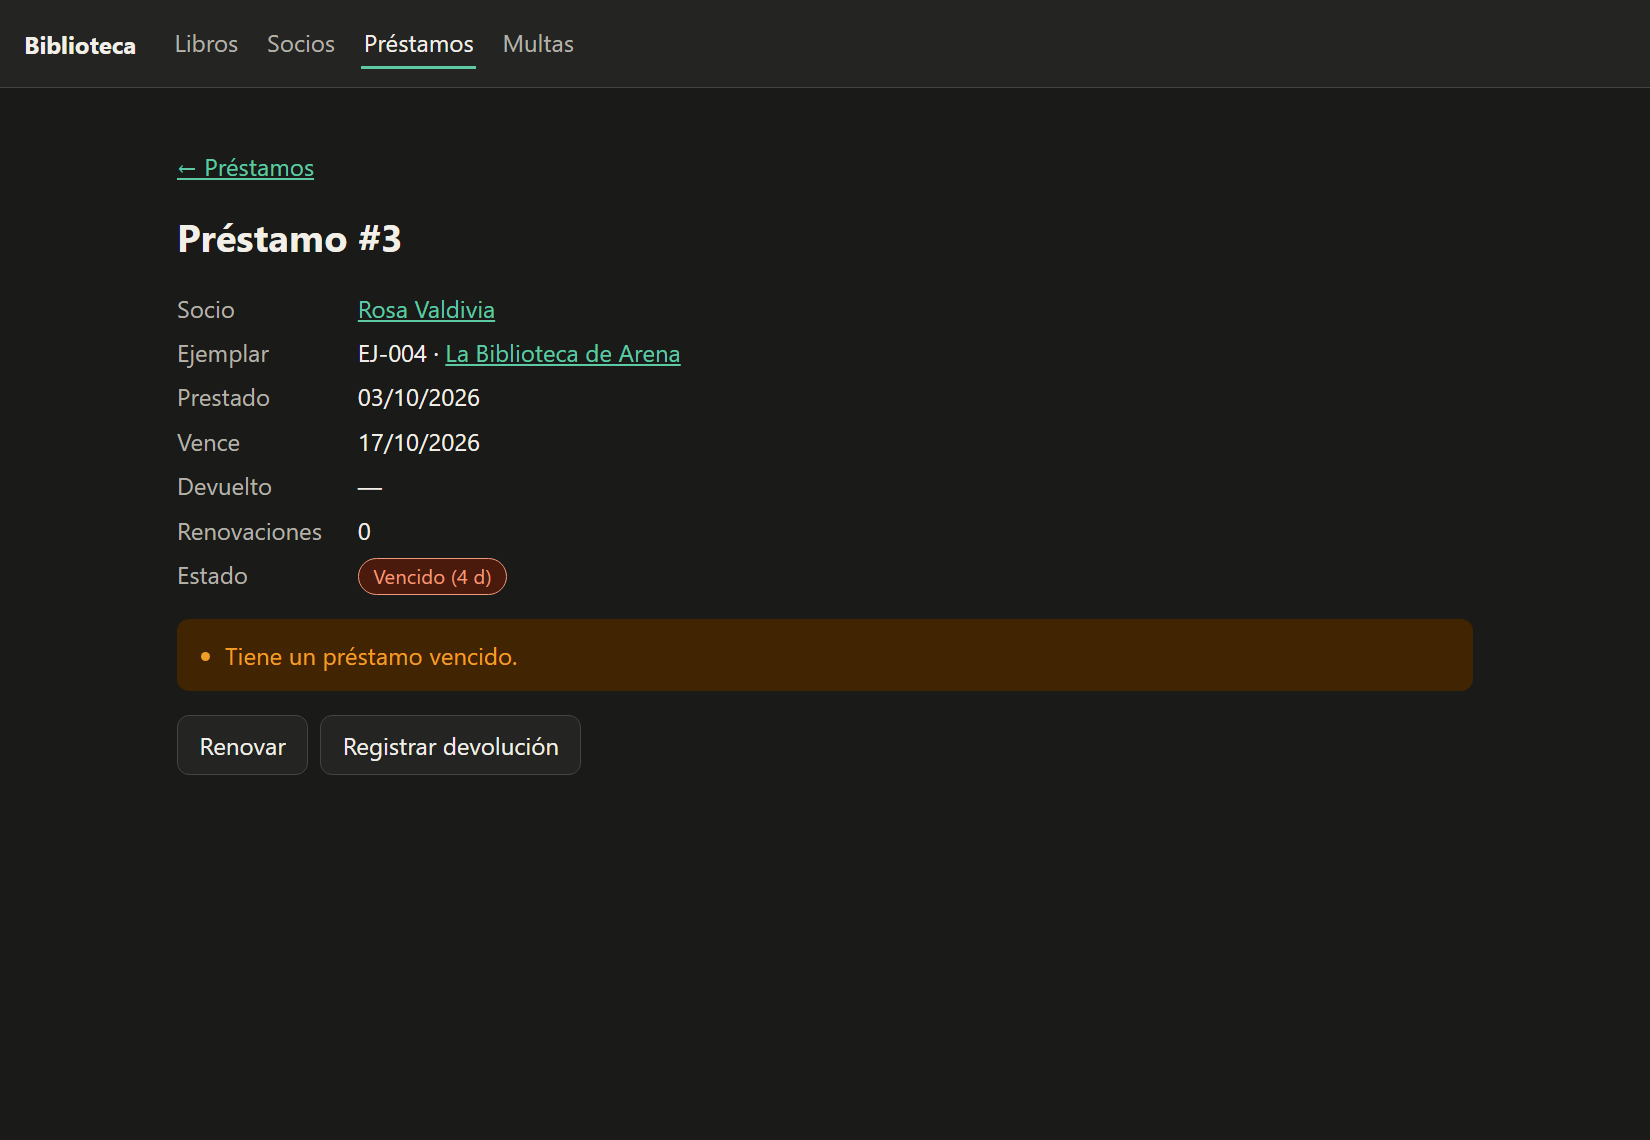
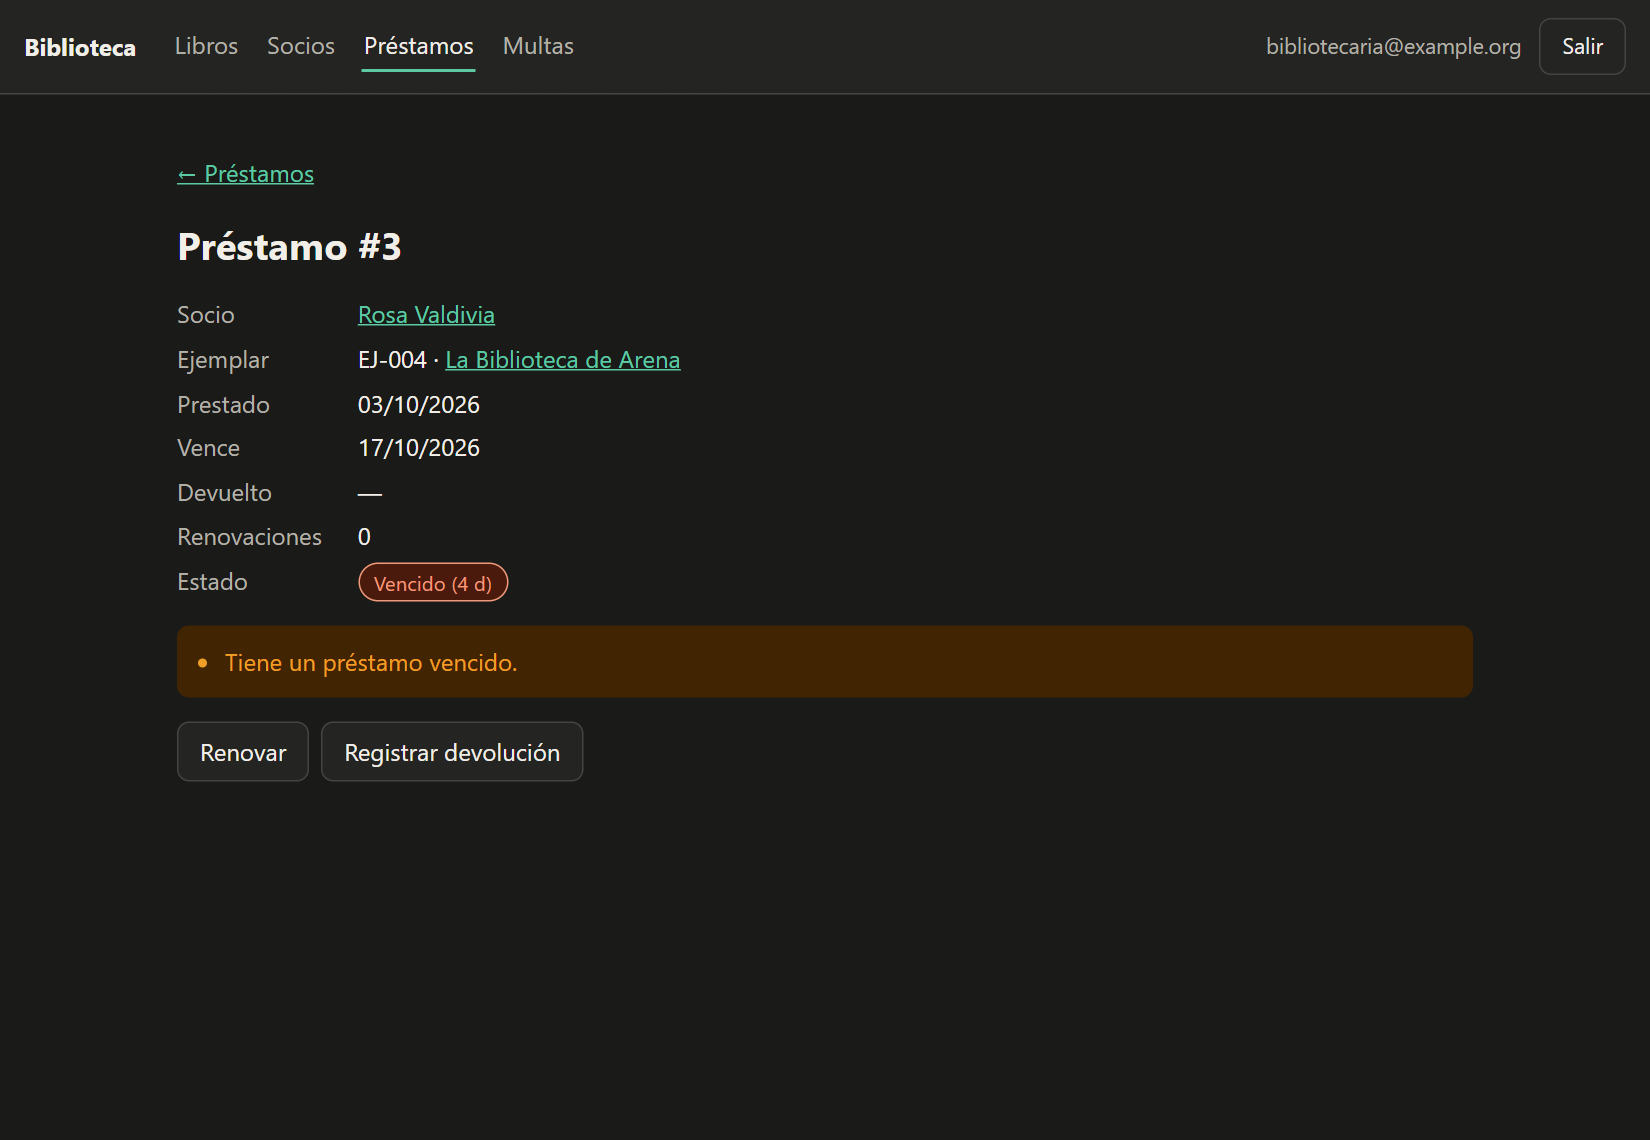
feat: integrate sign-in with JWT and two roles into the whole system
The compose passes the signing key and the password of the demo accounts to
the API (both required, no value in the file) and builds the API 0.3.1 and the
panel 0.2.1. The README explains the three demo accounts, new screenshots show
the sign-in, a member's account and the librarian screens, and the diagram
mentions the token. Putting the pieces together found a bug (writes through
nginx refused with 403), fixed in the panel 0.2.1.

diff --git a/README.md b/README.md
@@ -6,7 +6,7 @@
 ![React 19](https://img.shields.io/badge/React-19-61DAFB)
 ![Oracle XE 21c](https://img.shields.io/badge/Oracle-XE%2021c-red)
 
-A small library system built end to end: a **REST API** with its rules enforced by the database, a **shared API contract**, and a **React panel** for the librarian. This repository is the front door of the project: it starts everything with one command and explains how the pieces fit.
+A small library system built end to end: a **REST API** with its rules enforced by the database, **sign-in with JWT and two roles**, a **shared API contract**, and a **React panel** for librarians and members. This repository is the front door of the project: it starts everything with one command and explains how the pieces fit.
 
 > All data in this project is fictional. It is a portfolio project and is not related to any real organization.
 
@@ -14,8 +14,9 @@ A small library system built end to end: a **REST API** with its rules enforced 
 
 | | |
 |---|---|
-| ![Catalog](docs/screenshots/catalogo.png) | ![Member with a fine](docs/screenshots/socio.png) |
-| ![An overdue loan](docs/screenshots/prestamo.png) | ![Pending fines](docs/screenshots/multas.png) |
+| ![Sign-in](docs/screenshots/login.png) | ![Catalog](docs/screenshots/catalogo.png) |
+| ![A member with a fine](docs/screenshots/socio.png) | ![An overdue loan](docs/screenshots/prestamo.png) |
+| ![Pending fines](docs/screenshots/multas.png) | ![A member's own account](docs/screenshots/mi-cuenta.png) |
 
 ## Run it
 
@@ -28,44 +29,58 @@ cp .env.example .env
 docker compose up --build
 ```
 
-Open <http://localhost:8081>.
+Open <http://localhost:8081> and sign in with one of the demo accounts below.
 
-The first start downloads the Oracle image and builds the API and the panel, so it takes a few minutes; later starts take about a minute. The API loads a made-up library on its first start, so every screen has something to show. To stop it, press `Ctrl+C`; to remove the containers and the database, run `docker compose down -v`.
+The first start downloads the Oracle image and builds the API and the panel, so it takes a few minutes; later starts take about a minute. The API loads a made-up library and three accounts on its first start, so every screen has something to show. To stop it, press `Ctrl+C`; to remove the containers and the database, run `docker compose down -v`.
 
-The example values in `.env.example` are fine for a demo on your own machine: the database has no published port, so only the API can reach it. Change them for anything else.
+The example values in `.env.example` are fine for a demo on your own machine: nothing but the panel is published, and only on `127.0.0.1`. Change them (the signing key above all: `openssl rand -base64 48`) for anything else.
+
+### Demo accounts
+
+The password of all three is the `DEMO_PASSWORD` of your `.env` (`change_me_demo_password` in the example).
+
+| Account | Role | What to try |
+|---------|------|-------------|
+| `bibliotecaria@example.org` | Librarian | The whole panel: lend a copy, renew the overdue loan (it is refused, and the panel says why), pay a fine |
+| `mateo.quispe@example.org` | Member | "Mi cuenta": a score of 79 and a **pending fine**. The catalog is read-only; the librarian screens answer "Sin permiso" |
+| `rosa.valdivia@example.org` | Member | "Mi cuenta": an **overdue loan** |
 
 ### What is in the demo
 
-20 books with their copies and 8 members, with loans in every state: due soon, renewed, overdue, returned late with a **pending fine** (that member cannot borrow), returned late and paid, a deactivated member and a retired copy. Try lending a copy, renewing the overdue loan (it is refused, and the panel says why) or paying the fine.
+20 books with their copies and 8 members, with loans in every state: due soon, renewed, overdue, returned late with a **pending fine** (that member cannot borrow), returned late and paid, a deactivated member and a retired copy.
 
 ### If something goes wrong
 
 - **`failed to execute bake`** while building: some Docker Desktop versions fail to hand a build from a Git address to the new builder. Use the classic one: `COMPOSE_BAKE=false docker compose up --build`.
 - **Docker Hub pull limits** on the Oracle image: set `ORACLE_IMAGE=ghcr.io/gvenzl/oracle-xe:21-slim-faststart` in `.env`.
 - **Port 8081 is taken**: change `WEB_PORT` in `.env`.
+- **The API stops at startup** saying the key is too short: `JWT_SECRET` needs at least 32 characters.
 - **Start again from nothing** (database included): `docker compose down -v`.
 
 ## The pieces
 
 | Repository | What it is | Version |
 |------------|------------|---------|
-| [biblioteca-java](https://github.com/caronteisback/biblioteca-java) | The API: Java 17, Spring Boot 4, JPA and Oracle XE 21c, with 312 tests on a real database | v0.2.0 |
-| [biblioteca-web](https://github.com/caronteisback/biblioteca-web) | The panel: React, TypeScript and Vite, with 69 tests including a whole-journey test and an accessibility check of every screen | v0.1.1 |
-| [biblioteca-contrato](https://github.com/caronteisback/biblioteca-contrato) | The contract: one OpenAPI 3.1 file that the API is tested against and the panel's types are generated from | v0.1.1 |
+| [biblioteca-java](https://github.com/caronteisback/biblioteca-java) | The API: Java 17, Spring Boot 4, JPA and Oracle XE 21c, JWT and two roles, with 399 tests on a real database | v0.3.1 |
+| [biblioteca-web](https://github.com/caronteisback/biblioteca-web) | The panel: React, TypeScript and Vite, with 143 tests including whole journeys for a librarian and a member and an accessibility check of every screen | v0.2.1 |
+| [biblioteca-contrato](https://github.com/caronteisback/biblioteca-contrato) | The contract: one OpenAPI 3.1 file that the API is tested against and the panel's types are generated from | v0.2.1 |
 
 `docker-compose.yml` builds the API and the panel from their repositories at those tags, so what runs is what each tag released. To build from folders on your machine instead, set `API_SOURCE` and `WEB_SOURCE` in `.env` (see `.env.example`).
 
 ## Ideas worth a look
 
 - **Contract first.** The API and the panel never describe each other by hand: both follow `openapi.yaml`. The panel's types are generated from it, so a call the contract does not describe does not compile, and a test calls the real API and checks every status, body and error code against the contract.
+- **Access control that the contract checks.** One list in the API says who may call what; it enforces it and publishes it in the OpenAPI description. A test walks every operation of the contract with no token, a librarian's and a member's, and checks the answer is the one the contract declares. A member's data is read from the token, never from the request, so there is no way to ask for someone else's.
 - **Rules where they cannot be skipped.** A copy cannot have two active loans because the database says so (a unique index), and the services say it first with a clear error. Concurrent requests are serialized with row locks in a fixed order, and tests with real threads prove it.
 - **Calculated, never stored.** The member's score, the alerts and the availability of a copy are computed from the history when asked, so they cannot go stale.
-- **One error shape.** Every failure is `{ code, message }` with a stable code; the panel has a Spanish message for each code, and the build fails if the contract adds a code without one.
-- **Safe by default.** No secrets in the repositories, the database is not reachable from outside, the panel is served by nginx without root with a strict Content-Security-Policy, and the API never leaks SQL or stack traces.
+- **One error shape.** Every failure is `{ code, message }` with a stable code, also for the security filters; the panel has a Spanish message for each code, and the build fails if the contract adds a code without one.
+- **Safe by default.** No secrets in the repositories; passwords stored as salted hashes; a wrong email and a wrong password look the same, and five failures lock an email; the signing key has no default; the database is not reachable from outside; the panel is served by nginx without root with a strict Content-Security-Policy; and the API never leaks SQL or stack traces.
+- **Bugs found by testing the real thing.** Putting the pieces together found a bug that no unit test could: every write through nginx was refused, because the proxy dropped the port from the `Host` header and the API took the browser's own `Origin` for another site. It is fixed, and a CI check now reproduces it.
 
 ## Limits
 
-- **There is no login yet.** The API has no authentication, so the panel is bound to `localhost` and must not be exposed to a network. Authentication with JWT and roles is the next step.
+- **The panel and the API speak plain HTTP**, so the password and the token would travel in clear on a network: this setup is bound to `localhost`. Put HTTPS in front of it before exposing it.
+- **There is no operation to create or manage accounts**: they come from the environment and the demo data. Tokens last 60 minutes and cannot be revoked earlier; the sign-in lock counts failures in the memory of one API instance.
 - The panel's screens are in Spanish; the code, the API contract and the documentation are in English.
 
 ## License
